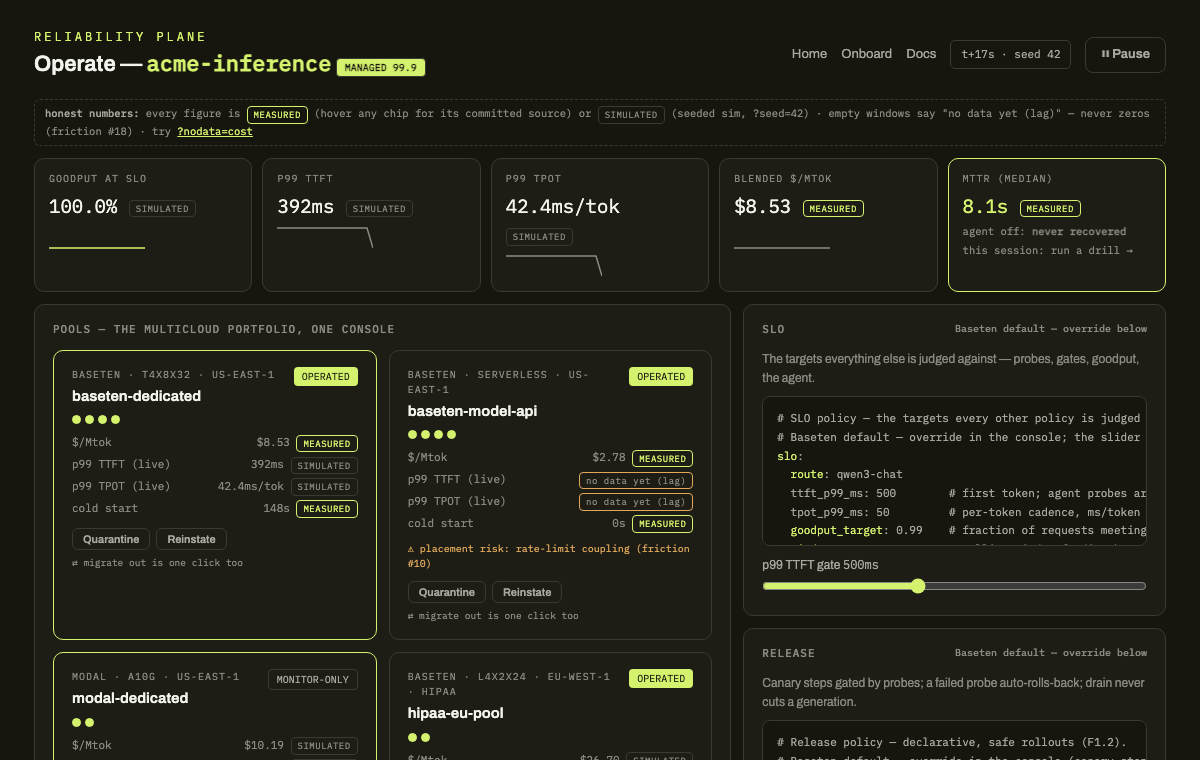
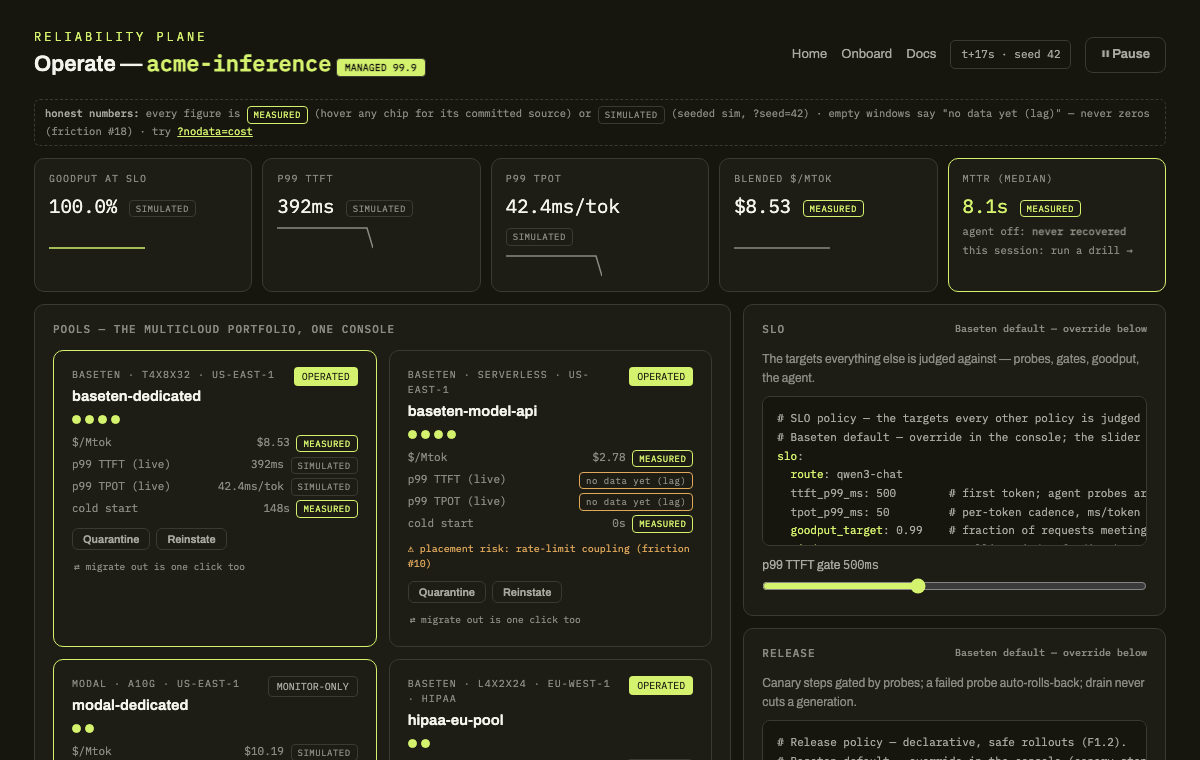
docs: README with JD mapping + evidence tables; wire the migrate-out no-lock-in affordance

diff --git a/js/sim/engine.js b/js/sim/engine.js
@@ -327,11 +327,14 @@
     function startMigration(direction = 'in') {
       if (migration && !migration.finished) return false;
       migrationDir = direction;
-      const [source, target] = direction === 'in'
-        ? ['modal-dedicated', 'baseten-dedicated']
-        : ['baseten-dedicated', 'modal-dedicated'];
+      // IN (the headline): the monitored external route comes onto Baseten.
+      // OUT (the no-lock-in proof): the Baseten-resident route leaves. Same
+      // machine, direction swapped.
+      const [route, source, target] = direction === 'in'
+        ? ['voice-agent', 'modal-dedicated', 'baseten-dedicated']
+        : ['chat-prod', 'baseten-dedicated', 'modal-dedicated'];
       migration = migrationMod.createMigration({
-        route: 'voice-agent', source, target,
+        route, source, target,
         slo: { ttft_p99_ms: overrides.slo_ttft_ms, tpot_p99_ms: slo.tpot_p99_ms },
         requiredSamples: 40,
       });
@@ -386,7 +389,11 @@
     function heroMetrics() {
       const all = pools.filter(operated).flatMap(p => p.window);
       const ttfts = all.map(s => s.ttft), tpots = all.map(s => s.tpot);
-      const perPool = pools.map(p => ({ usd_per_mtok: p.usd_per_mtok, tokens: p.served_tokens }));
+      // the MEASURED chip on the blend is earned: only pools whose price
+      // traces to a committed file participate; simulated pools would
+      // poison the provenance (they still show their own labeled figures)
+      const perPool = pools.filter(p => operated(p) && p.source === 'measured')
+        .map(p => ({ usd_per_mtok: p.usd_per_mtok, tokens: p.served_tokens }));
       return {
         goodput: all.length ? costs.goodput(all.filter(s => s.slo_met).length, all.length) : null,
         ttft_p99_ms: costs.percentile(ttfts, 99),
@@ -511,6 +518,23 @@
       // controls
       runDrill, runRiggedDrill, startRollout, injectRegression,
       startMigration, rollbackMigration,
+      /* Operator controls exist only on OPERATED pools — a human's buttons,
+         separate from the agent's allowlist. Monitor-only pools refuse even
+         the operator (the UI never renders the button; this is the backstop). */
+      operatorQuarantine: id => {
+        const p = byId[id];
+        if (!p || !operated(p) || p.quarantined) return false;
+        p.quarantined = true; setReplicas(p, 'quarantined');
+        emit('operator', `operator: quarantined ${id} (manual)`, 'warn');
+        return true;
+      },
+      operatorReinstate: id => {
+        const p = byId[id];
+        if (!p || !operated(p) || !p.quarantined) return false;
+        p.quarantined = false; setReplicas(p, 'warm');
+        emit('operator', `operator: reinstated ${id} (manual)`, 'info');
+        return true;
+      },
       clearDrill: () => { drill = null; },
       overrides,
       setOverride: (k, v) => { overrides[k] = v; emit('policy', `policy override: ${k} → ${JSON.stringify(v)}`, 'info'); },

diff --git a/css/console.css b/css/console.css
@@ -30,7 +30,8 @@
 .hazard{font-family:var(--mono);font-size:10px;color:var(--amber);margin-top:8px;cursor:help}
 .pool-controls{margin-top:10px;display:flex;gap:6px;align-items:center;flex-wrap:wrap}
 button.mini{font-size:11px;padding:4px 10px;border-radius:6px}
-.rev{font-family:var(--mono);font-size:9.5px;color:var(--dim);cursor:help}
+button.mini.rev{font-family:var(--mono);font-size:9.5px;color:var(--dim);border:none;padding:4px 2px;font-weight:400}
+button.mini.rev:hover{color:var(--mut)}
 .qnote{font-size:10px;color:var(--amber);margin-top:8px}
 
 /* policy rail */

diff --git a/js/ui/pools.js b/js/ui/pools.js
@@ -22,7 +22,7 @@
       ? '<button class="mini" data-act="migrate">Migrate route →</button>'
       : `<button class="mini" data-act="quarantine" data-pool="${esc(p.id)}">Quarantine</button>
          <button class="mini" data-act="reinstate" data-pool="${esc(p.id)}">Reinstate</button>
-         <span class="rev" data-tip="Certified migration is reversible by design — the same state machine runs in either direction; that's why attaching your endpoints is safe." tabindex="0">⇄ migrate out is one click too</span>`;
+         <button class="mini rev" data-act="migrate-out" data-tip="Certified migration is reversible by design — the same state machine (js/sim/migration.js) runs in either direction; that's why attaching your endpoints is safe.">⇄ migrate out is one click too</button>`;
     return `
     <div class="pool card ${border}" data-pool="${esc(p.id)}">
       <div class="pool-head">

diff --git a/js/ui/console.js b/js/ui/console.js
@@ -76,6 +76,7 @@
     if (!btn) return;
     const act = btn.dataset.act;
     if (act === 'migrate') engine.startMigration('in');
+    if (act === 'migrate-out') engine.startMigration('out');   // no-lock-in, same machine
     if (act === 'rollback') engine.rollbackMigration();
     if (act === 'quarantine') engine.operatorQuarantine(btn.dataset.pool);
     if (act === 'reinstate') engine.operatorReinstate(btn.dataset.pool);

diff --git a/README.md b/README.md
@@ -1,0 +1,158 @@
+# Baseten Reliability Plane — operate console MVP
+
+Reliability at Baseten today is something the platform does *for* customers —
+MCM places, fails over, and heals, operator-first and invisible. This repo is
+the reference implementation of the opposite surface: reliability as something
+customers **declare** (four policy objects: Placement, Failover, Release, SLO)
+and **operate** (one glanceable console where every enforcement decision is
+visible and an agent with a closed action allowlist runs the remediations) —
+MCM turned inside out. It is a static, Vercel-deployable MVP: no framework, no
+build step, no backend, and a hard rule that every number on screen is either
+measured from a committed recording or labeled simulated.
+
+**Live tour:** open [`operate.html`](operate.html) → Run drill → Run rigged
+drill (watch the guard refuse) → Inject regression (watch the canary roll
+back) → Migrate route (shadow → certify → promote, rollback held).
+
+## The story in three beats (why this repo looks like this)
+
+1. **We onboarded to Baseten by hand and logged every friction** — 19 entries
+   with committed evidence ([docs/friction-log.html](docs/friction-log.html)):
+   silent capacity waits, un-triageable build failures, a production pointer
+   left on a dead deploy.
+2. **Then we onboarded again through Baseten's own MCP server and agent
+   skills — agentically — and the path worked** (evidence: `evals/mcp-deploy`
+   in [baseten-mvp](https://github.com/vsiwach/baseten-mvp), MCP-read metrics
+   CSVs in [`data/recorded/`](data/recorded/PROVENANCE.md)).
+3. **This product gives that same technique to the customer**
+   ([onboard.html](onboard.html)): one prompt attaches their clouds read-only,
+   baselines every route, and migrates traffic to Baseten — safely — when the
+   evidence says so.
+
+## The framing
+
+Serious inference buyers already multi-home, and they're rightly suspicious of
+a provider-owned control plane over their other clouds. So this plane starts
+where trust starts: **read-only monitoring of every deployment you run, on any
+provider** — one console for SLO adherence and measured $/Mtok. The ledger
+that monitoring builds turns "considering moving traffic" into a **one-click
+certified migration**, backed by rerunnable evidence instead of a bake-off
+project. Control features apply only to Baseten-side workloads:
+**observe → migrate → declare → operate**. Modal appears as the worked example
+of a monitored external pool, not a bake-off target — and certified migration
+is deliberately reversible (migrate-out is one click too), because no-lock-in
+is what makes attaching your endpoints safe.
+
+## JD mapping — Product Manager, Inference Platform
+
+| JD outcome area | Where this repo demonstrates it | PRD |
+| --- | --- | --- |
+| Autoscaling to demand + **a single placement policy** (region, compliance regime, capacity preference, **right-of-way**) | Placement policy card + pool grid + placement feed: compliance-bound work is DENIED ordinary capacity, PREEMPTS filler on sensitive capacity (watch the feed), capacity-preference toggle changes where the next workload lands, cold-start seconds with mitigation on every pool card | F1.1, F1.3, F1.4 |
+| **Multi-region / active-active and fallback as first-class policy** | Failover policy card (spill target toggle) + quarantine → spill in the feed + the #10 hazard scored on the spill target (rate-limit coupling prices the failover path honestly) | F1.5 |
+| Traffic-shifting for **canary/shadow/A/B**, warm-ups, drain, probes | Release panel: gated canary with auto-rollback and a zero-drop drain counter; shadow is the first stage of every certified migration; both ported from a working router ([js/sim/release.js](js/sim/release.js), [migration.js](js/sim/migration.js)) | F1.2 |
+| **Measurable decline in MTTR through self-serve incident management** | Incident panel: SLO-driven agent (closed allowlist, rendered in the UI), MTTR stopwatch, evidence card, replay of a **real recorded 8.8s incident**; recorded agent-off baseline: never recovered | F0.4, F2.1, F2.2 |
+
+## Evidence — what's measured, what's simulated
+
+Measured (chip → tooltip → committed file; see
+[`data/recorded/PROVENANCE.md`](data/recorded/PROVENANCE.md)):
+
+- **MTTR 8.1–9.2s** across 48 agent-on chaos drills (`chaos_drills.csv`); the
+  console replays episode `ep-inc-0001-1783126701` (8.8s) verbatim. Every
+  agent-off drill row is `resolved=False` — the manual baseline never
+  recovered inside the drill window.
+- **baseten-dedicated** (T4x8x32, vLLM, Qwen3-8B-AWQ): warm TTFT ~330ms, TPOT
+  ~34ms/tok, cold start 360.4s → 148.2s after one BDN `weights:` stanza
+  (friction #15/#17); $/Mtok = published $0.9024/hr ÷ measured 29.4 tok/s =
+  **$8.53**.
+- **baseten-model-api**: p50 TTFT 299ms, billed **$2.78/Mtok** (glm-4.7 sweep
+  CSVs); the #10 hazard (28/40 requests 429'd, no `Retry-After`) is rendered
+  as a placement risk on its pool card.
+- The friction #18 pair: the same metrics call returning silent nulls at ~35s
+  and true values at ~2min — why this console renders "no data yet (lag)",
+  never zeros (`live_mcp_metrics_summary_*.json`).
+
+Simulated (labeled everywhere): live traffic, drill timings, the
+`modal-dedicated` profile (no recorded Modal CSV exists yet — record one with
+`bench/` and it upgrades to MEASURED), and `hipaa-eu-pool` (exists to demo
+right-of-way without pretending to real HIPAA capacity).
+
+### SLO/SLA comparison (provenance per cell, as rendered in the console)
+
+| Pool | warm TTFT | TPOT | cold start | $/Mtok | published SLA |
+| --- | --- | --- | --- | --- | --- |
+| baseten-dedicated | 330ms · measured | 34ms/tok · measured | 148s (BDN) · measured | $8.53 · measured | 99.9% · published |
+| baseten-model-api | 299ms · measured | 6.3ms/tok · measured | 0s (shared) · measured | $2.78 · measured (billed) | 99.9% · published |
+| modal-dedicated | 280ms · simulated | 33ms/tok · simulated | 4s (snapshot) · simulated | $10.19 · simulated | 99.95% · published |
+| hipaa-eu-pool | 380ms · simulated | 40ms/tok · simulated | 60s · simulated | $26.70 · simulated | 99.9% · published |
+
+## Run it
+
+```bash
+open operate.html                 # works from file:// — no server needed
+# or: python3 -m http.server 8431   → http://localhost:8431/operate.html
+npm test                          # 46 unit tests for the pure sim core
+```
+
+Useful URLs: `operate.html?seed=42` (any seed is deterministic — same seed,
+same event stream, asserted in `tests/determinism.test.js`),
+`operate.html?nodata=cost` (kill a data source; the tile says "no data yet",
+never zero).
+
+**Refresh evidence** (one line per provider — see [`bench/README.md`](bench/README.md)):
+`python3 bench/bench.py --url <openai-compatible>/v1 --model <m> --key $KEY --alias <pool> [-n 60] [--usd-hr <price>]`
+
+**Deploy:** `vercel deploy` from the repo root (or point a Vercel project at
+this repo — it's static files, no build step).
+
+**Publish:** `gh repo create baseten-reliability-plane --public --source . --push`
+
+## Architecture
+
+```
+js/sim/    pure, seeded, clock-injected state machines — every decision lives here
+           prng · costs (measured-only: $/hr ÷ tok/s) · placement (right-of-way)
+           release (canary/shadow, auto-rollback) · migration (shadow→certify→promote)
+           agent (closed allowlist + guards) · incidents (phase clock, MTTR) · engine
+js/ui/     panel renderers only — no decision logic in DOM code
+js/data/   verbatim mirrors (policies as YAML strings, recorded operating points)
+policies/  the four declared policy objects, YAML, human-readable
+data/      byte-for-byte recorded evidence + PROVENANCE.md
+tests/     node --test; determinism, both agent guards, monitor-only refusal
+```
+
+Two implementation notes, both deliberate: the sim files are classic scripts
+with a CJS export shim (not ES modules) so `operate.html` opens from `file://`
+in every browser with zero console errors while `node --test` imports the same
+code; and `js/data/policies.js` embeds the YAML verbatim for the same reason —
+a unit test fails if the mirror ever drifts from `policies/*.yaml`.
+
+The agent's authority boundary is structural, not cosmetic: monitor-only pools
+never get a case in the decision core
+([js/sim/agent.js](js/sim/agent.js)), and
+`tests/agent.test.js` proves the refusal — hiding buttons is not a security
+model.
+
+## Business value (qualitative, deliberately)
+
+Faster evaluation (attach + baseline in a prompt, not a bake-off project) →
+more certified migrations → higher dedicated utilization → SLA-ladder revenue
+on reserved capacity; lower MTTR → retention. The quantified ROI model is
+deliberately deferred: it needs internal context — pricing, capacity costs,
+funnel conversion — and it is the first thing to build with business context
+from inside.
+
+## Lineage
+
+- [`ai-native-pipeline`](https://github.com/vsiwach/ai-native-pipeline) — the
+  release engine (canary/shadow/drain), the measured-cost ledger rule, the
+  certified-migration state machine, and the design language this console inherits.
+- [`baseten-mvp`](https://github.com/vsiwach/baseten-mvp) — the incident agent
+  (ported faithfully, guards and all), the friction log, and every recorded
+  file in `data/recorded/`.
+- **Baseten's own rails**: this whole onboarding motion rides the Baseten MCP
+  server + agent skills (shipped June 30, 2026). Baseten made the platform
+  agent-operable before this plane existed; this MVP is the product those
+  rails deserve.
+
+MIT — see [LICENSE](LICENSE).